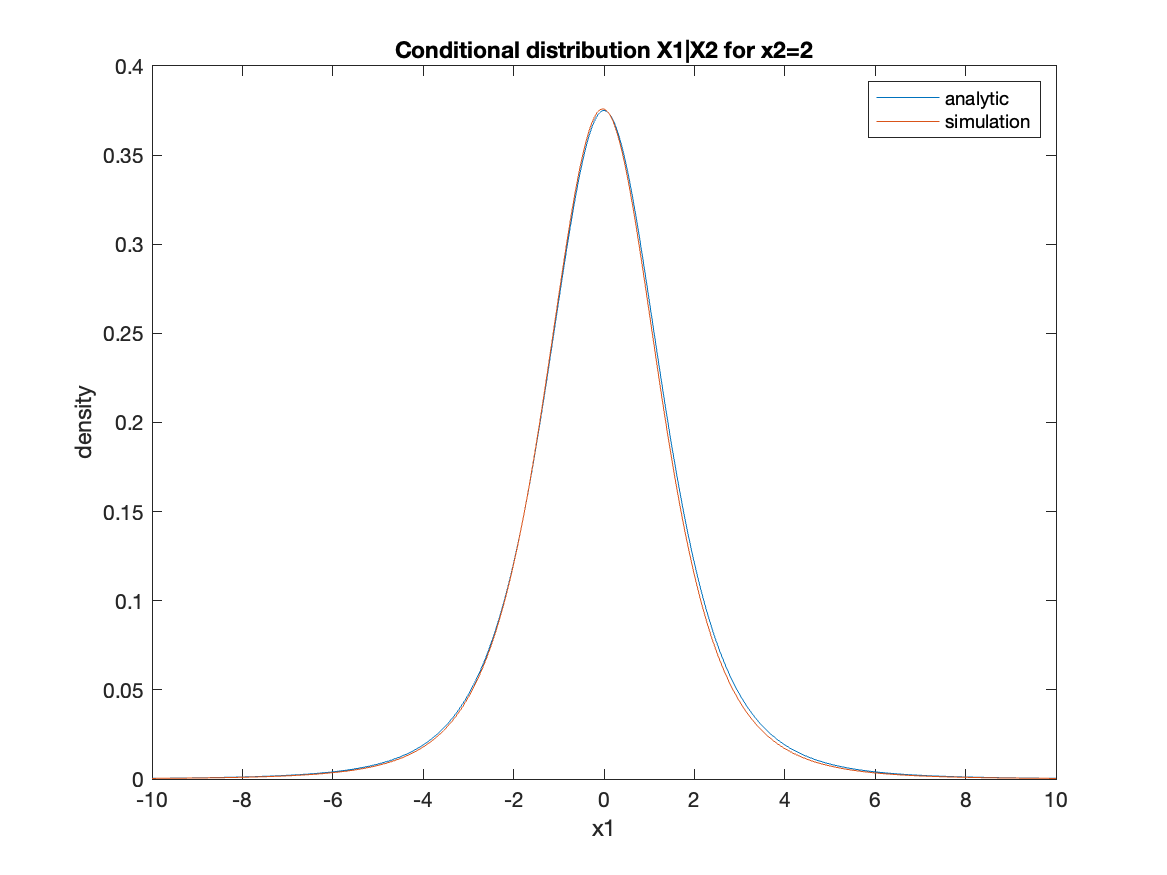
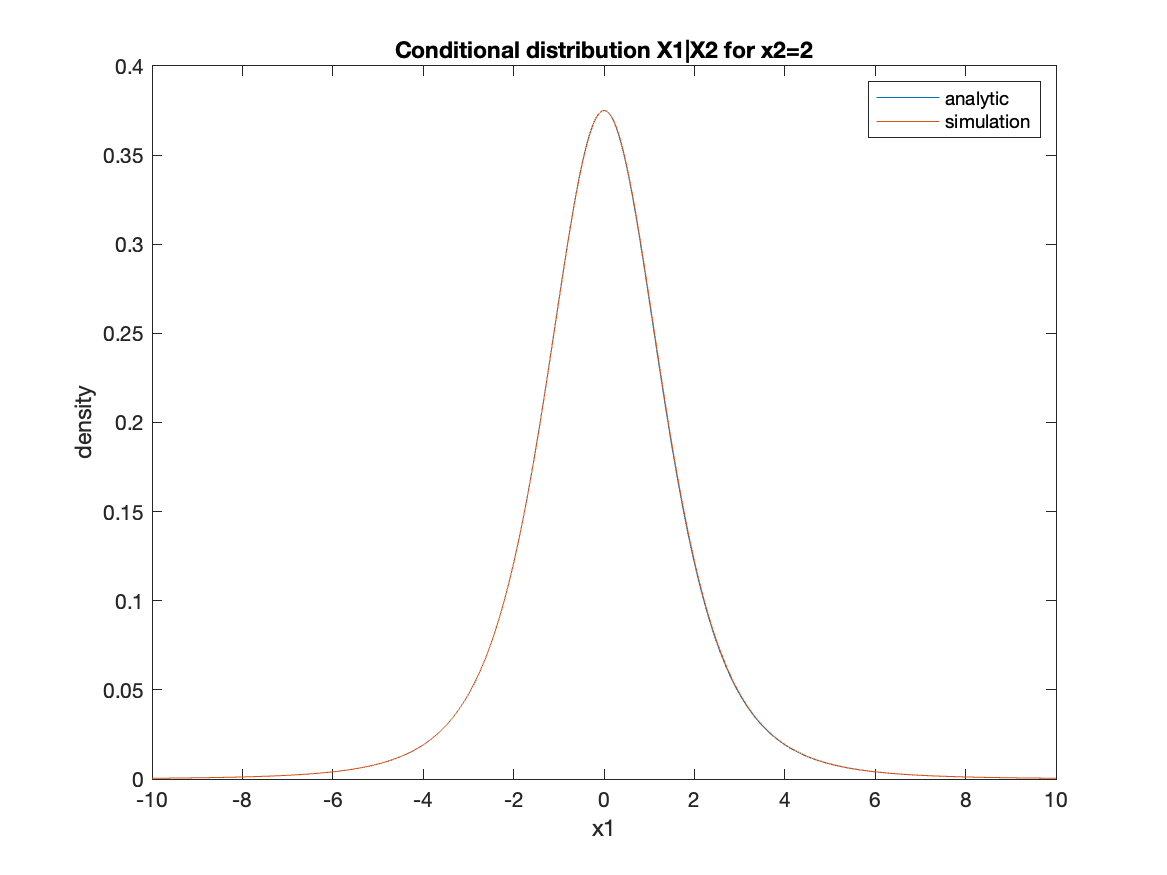
Finished question 1 and 2

diff --git a/Assignment2/Q1b.m b/Assignment2/Q1b.m
@@ -1,6 +1,6 @@
 clear variables 
 
-%% Set the tolerance levels for BFGS and titer
+%% Set the tolerance levels for BFGS and titer to optimal values
 tol_titer = 1e-3;
 tol_BFGS = 1e-2;
 df = 3;
@@ -9,7 +9,7 @@ seed=6;
 rng(seed,'twister')
 
 %% Generate k samples of size T with trnd()
-k = 1000; % number of samples
+k = 10000; % number of samples
 T = 250; % sample size
 
 samples = trnd(df,k,T);
@@ -18,18 +18,40 @@ samples = trnd(df,k,T);
 %% Measure runtime for function calls specifically
 % titer time measurement
 elapsedTime_titer = 0;
+runtimes_titer = zeros(k,1);
 for i=1:k
     sample_i = samples(i,:);
-    ftiter = @() titer(sample_i,tol_titer);
+    ftiter = @() titer(sample_i,tol_titer); % define function call to be timed
     time_run_i = timeit(ftiter); % measures exactly one function call 
+    runtimes_titer(i) = time_run_i;
     elapsedTime_titer = elapsedTime_titer+time_run_i; % sum up over k samples
 end
 
 %BFGS time measurement
+runtimes_BFGS = zeros(k,1);
 elapsedTime_BFGS=0;
 for i=1:k
     sample_i = samples(i,:);
     fBFGS = @() calc_BFGS(sample_i,df,tol_BFGS);
     time_run_i = timeit(fBFGS);
+    runtimes_BFGS(i) = time_run_i;
     elapsedTime_BFGS = elapsedTime_BFGS +time_run_i;
 end
+
+[f, x] = ksdensity(runtimes_titer,'Function','pdf','Bandwidth', 0.00009, 'Kernel', 'epanechnikov', 'NumPoints', 1000);
+figure
+plot(x,f./sum(f));
+title('density of titer run times')
+xlabel('run time')
+ylabel('pdf')
+file_name = ['figures/Q1/runtimes_titer.png'];
+saveas(gcf,file_name)
+
+figure
+[f, x] = ksdensity(runtimes_BFGS,'Function','pdf','Bandwidth', 0.0007, 'Kernel', 'epanechnikov', 'NumPoints', 1000);
+plot(x,f./sum(f));
+title('density of BFGS run times')
+xlabel('run times')
+ylabel('pdf')
+file_name = ['figures/Q1/runtimes_BFGS.png'];
+saveas(gcf,file_name)

diff --git a/Assignment2/plotConditionalDistribution.m b/Assignment2/plotConditionalDistribution.m
@@ -1,25 +1,29 @@
 function plotConditionalDistribution(sample_size, x2, df, Mu, Sigma, epsilon)
 
     sample = mvtLocationScale_random(sample_size, Mu, Sigma, df);
-    [mu_est,sigma_est, df_est, X1CondX2_sim] = conditionOnX2(sample,df,x2,epsilon);
-       
+    condition = 'X1onX2';
+    [mu_est,sigma_est, df_est, X1CondX2_sim] = calc_parametersConditionalMVT_simulate(sample,df,x2,epsilon,condition);
     
-    % % Plot the kernel density estimate of X1midX2
-    % [f, xi] = ksdensity(X1CondX2_sim);
-    % figure;
-    % plot(xi, f);
-    % title(['Kernel Density Estimation of X1 conditioned on X2=',num2str(x2)]);
-    % xlabel('X1');
-    % ylabel('Density');
-    % xlim([-5, 5]);
+    disp(length(X1CondX2_sim))
+
+    % Plot the kernel density estimate of X1midX2
+    [f, xi] = ksdensity(X1CondX2_sim);
+    figure;
+    plot(xi, f);
+    title(['Kernel Density Estimation of X1 conditioned on X2=',num2str(x2)]);
+    xlabel('X1');
+    ylabel('Density');
+    xlim([-5, 5]);
 
     % Plot parametric estimate of X1midX2
     x=-5:0.01:5;
-    X1CondX2_param = sigma_est.*tpdf(x,df_est) + mu_est;
     figure
+    X1CondX2_param = sigma_est.*tpdf(x,df_est) + mu_est;
     plot(x,X1CondX2_param)
-    title(['Parametric density estimation of X1 conditioned on X2=',num2str(x2)])
+    title(['Parametric and kernel density estimation of X1 conditioned on X2=',num2str(x2)])
     xlabel('X1');
     ylabel('Density');
+    
+
 
 end

diff --git a/Assignment2/plotMVTLocationScaleExact.m b/Assignment2/plotMVTLocationScaleExact.m
@@ -30,17 +30,17 @@ function out = plotMVTLocationScaleExact(Location, Sigma, df, dims, num_points, 
     if save_fig == true
         figure 
         surf(x1plot, x2plot, F);
-        axis([locx1 - dim1, locx1 + dim1, locx2 - dim2, locx2 + dim2, 0, 0.4])
+        axis([locx1 - dim1, locx1 + dim1, locx2 - dim2, locx2 + dim2, 0, 0.3])
         xlabel('x1'); ylabel('x2'); zlabel('Probability Density');
-        campos([0,0,2.290063509461096])
-        filename = ['figures/Q2/',file_name,'_topview.png'];
+        view(0, 90);
+        filename = ['figures/Q2/AdditionalPlots/',file_name,'topview.png'];
         saveas(gcf,filename);
         
         figure 
         surf(x1plot, x2plot, F);
-        axis([locx1 - dim1, locx1 + dim1, locx2 - dim2, locx2 + dim2, 0, 0.4])
+        axis([locx1 - dim1, locx1 + dim1, locx2 - dim2, locx2 + dim2, 0, 0.3])
         xlabel('x1'); ylabel('x2'); zlabel('Probability Density');
-        filename = ['figures/Q2/',file_name,'_sideview.png'];
+        filename = ['figures/Q2/additionalPlots/',file_name,'sideview.png'];
         saveas(gcf,filename);
     end
         

diff --git a/Assignment2/Q2b.m b/Assignment2/Q2b.m
@@ -1,6 +1,7 @@
+clear variables
 Sigma = [1, 0; 0, 1];
-df = 4 ; 
-sample_size = 1e7;
+df = 5; 
+sample_size = 1e8;
 Mu = [0 ; 0];
 dims = [5,5];
 
@@ -9,18 +10,18 @@ dims = [5,5];
 %% II.2 Simulate bivariate studentt distribution
 % Exact profile
 % num_points = 100;
-% save_fig = false;
-% file_name = ['MVTplot_df',num2str(df)];
-% plotMVTZeroLocationExact(Mu,Sigma, df, dims, num_points,save_fig,file_name);
+% save_fig = true;
+% file_name = ['MVTplot_df_exact',num2str(df),'_Loc',num2str(Mu(1)),num2str(Mu(2)),'_Sig',num2str(Sigma(1,2)),'_'];
+% plotMVTLocationScaleExact(Mu,Sigma, df, dims, num_points,save_fig,file_name);
 
-% Simulated profile
+% % Simulated profile
 % bandwidth = 0.05;
 % save_fig = true;
 % file_name = ['MVTplot_df',num2str(df),'_Loc',num2str(Mu(1)),num2str(Mu(2)),'_Sig',num2str(Sigma(1,2)),'_'];
 % plotMVTLocationScaleSimulated(sample_size,Mu,Sigma,df,dims,bandwidth,100,save_fig,file_name)
 
 %% II.3 Simulate conditional distribution
-x2=0;
+x2=6;
 epsilon = 1e-3;
 plotConditionalDistribution(sample_size,x2,df,Mu,Sigma,epsilon);
 

diff --git a/Assignment2/plotMVTLocationScaleSimulated.m b/Assignment2/plotMVTLocationScaleSimulated.m
@@ -38,7 +38,7 @@ function plotMVTLocationScaleSimulated(sample_size, mu, Sigma, df, dims,bandwidt
         zlabel('Density');
         title('Kernel Density Estimation of Location-Scale Bivariate Student t Samples');
         view(0, 90);
-        filename = ['figures/Q2/SimulatedPlots/',file_name,'Simulated_Topview.png'];
+        filename = ['figures/Q2/AdditionalPlots/',file_name,'Simulated_Topview.png'];
         saveas(gcf,filename);
         
         figure 
@@ -48,7 +48,7 @@ function plotMVTLocationScaleSimulated(sample_size, mu, Sigma, df, dims,bandwidt
         zlabel('Density');
         title('Kernel Density Estimation of Location-Scale Bivariate Student t Samples');
         view(45, 30);
-        filename = ['figures/Q2/SimulatedPlots/',file_name,'Simulated_sideview.png'];
+        filename = ['figures/Q2/AdditionalPlots/',file_name,'Simulated_sideview.png'];
         saveas(gcf,filename);
     end
 end

diff --git a/Assignment2/get_BFGSOptimalTolerance.m b/Assignment2/get_BFGSOptimalTolerance.m
@@ -1,7 +1,6 @@
 function opt_tol = get_BFGSOptimalTolerance(sample,dof)
-
 %% Get a high accuracy solution using tolerance = 1e-14
-% Calculate high accuracy estimates 
+% Calculate high accuracy parameter estimates 
 [muhat_opt, chat_opt, dfhat_opt] = calc_BFGS(sample,dof,1e-14);
 dfhat_optSD = significant4Digits(dfhat_opt);
 muhat_optSD = significant4Digits(muhat_opt);
@@ -16,12 +15,11 @@ expLow = -11;
 expHigh = -1;
 toleranceList = generateToleranceLevels(expLow,expHigh);
 
-%% Find the optimal tolerance value from the list (4 significant digits)
-% for all tolerance levels do
+%% Find the optimal tolerance value from the list
 for i=1:length(toleranceList)
    tol = toleranceList(i);
     
-   % calculate parameter estimates
+   % calculate parameter estimates for tol
    [muhati, chati, dfhati] = calc_BFGS(sample,dof,tol);
    dfhatiSD = significant4Digits(dfhati);
    muhatiSD = significant4Digits(muhati);

diff --git a/Assignment2/get_titerOptimalTolerance.m b/Assignment2/get_titerOptimalTolerance.m
@@ -10,18 +10,16 @@ chat_optSD = significant4Digits(chat_opt);
 % Store the 4 significant digits of each parameter in opt_paramsSD
 opt_paramsSD = [dfhat_optSD(1), muhat_optSD(1), chat_optSD(1)];
 
-
 %% Generate a list of possible tolerance levels
 expLow = -11;
 expHigh = -1;
 toleranceList = generateToleranceLevels(expLow,expHigh);
 
-%% Find the optimal tolerance value from the list (4 significant digits)
-% for all tolerance levels do
+%% Find the sufficient tolerance value from the list (4 significant digits)
 for i=1:length(toleranceList)
    tol = toleranceList(i);
     
-   % calculate parameter estimates
+   % calculate parameter estimates using titer.m
    [dfhati, muhati, chati, ~] = titer(sample,tol);
    dfhatiSD = significant4Digits(dfhati);
    muhatiSD = significant4Digits(muhati);

diff --git a/Assignment2/Q1a.m b/Assignment2/Q1a.m
@@ -1,5 +1,6 @@
 clear variables
-
+ % This script computes the optimal tolerance values for which exactly 4
+ % significant digits 
 rng(6,'twister');
 nu = 3;
 sampleSize = 250;
@@ -31,7 +32,7 @@ plot(x,f./sum(f));
 title('density of "optimal" tolerance for titer')
 xlabel('tolerance level')
 ylabel('pdf')
-file_name = ['figures/pdfOptToleranceValues_tist.png'];
+file_name = ['figures/Q1/pdfOptToleranceValues_tist.png'];
 saveas(gcf,file_name)
 
 figure
@@ -40,7 +41,7 @@ plot(x,f./sum(f));
 title('density of "optimal" tolerance for BFGS')
 xlabel('tolerance level')
 ylabel('pdf')
-file_name = ['figures/pdfOptTolerance_BFGS.png'];
+file_name = ['figures/Q1/pdfOptTolerance_BFGS.png'];
 saveas(gcf,file_name)
 
 

diff --git a/Assignment2/Q2d.m b/Assignment2/Q2d.m
@@ -1,17 +1,17 @@
 clear variables
 Mu = [0,0];
 Sigma = [1,0;0,1];
-df = 3;
+df = 5; %1,3,5
 condition = "X1onX2";
-x2 = 4; 
-save_fig=false;
+x2 = 3; %0,1,2,3
+save_fig=true;
 
 
 %% Calculate conditional parameters through analytic formula
 [mu_ana, sigma_ana, df_ana] = calc_parametersConditionalMVT_analytic(x2, Mu, Sigma, df,condition);
 
 %% Calculate conditional parameters through simulation
-sample_size = 1e7;
+sample_size = 1e8;
 epsilon = 1e-3;
 sample = mvtLocationScale_random(sample_size, Mu, Sigma, df);
 [mu_sim, sigma_sim, df_sim,~] = calc_parametersConditionalMVT_simulate(sample,df,x2,epsilon,condition);

diff --git a/Assignment2/mvtLocationScale_random.m b/Assignment2/mvtLocationScale_random.m
@@ -1,11 +1,9 @@
 function sample = mvtLocationScale_random(sample_size,Mu, Sigma,df)
 
-% generate location zero bivariate student t samples
-R = mvtrnd(Sigma,df,sample_size);
+% generate location zero bivariate student-t samples
+sample = mvtrnd(Sigma,df,sample_size);
 
 % correct for the location
-R(:,1) = R(:,1) + Mu(1);
-R(:,2) = R(:,2) + Mu(2);
-
-sample = R;
+sample(:,1) = sample(:,1) + Mu(1);
+sample(:,2) = sample(:,2) + Mu(2);
 end

diff --git a/Assignment2/calc_parametersConditionalMVT_simulate.m b/Assignment2/calc_parametersConditionalMVT_simulate.m
@@ -21,6 +21,6 @@ function [mu_est,sigma_est,nu_est,conditional_sample] = calc_parametersCondition
     end
 
     % Get MLE estimate
-    tolerance = 0.001;
+    tolerance = 1e-3;
     [mu_est,sigma_est,nu_est] = calc_BFGS(conditional_sample, df, tolerance);
 end

diff --git a/Assignment2/calc_parametersConditionalMVT_analytic.m b/Assignment2/calc_parametersConditionalMVT_analytic.m
@@ -25,9 +25,6 @@ elseif condition == "X1onX2" % x1|x2
     Muc = mu1 + sigma12*sigma22^(-1)*(x-mu2);
     Sigmac = sqrt(scale_factor*(sigma11-sigma21*sigma12/sigma22));
     dfc = df + p;
-
 end
-
-
 
 end
